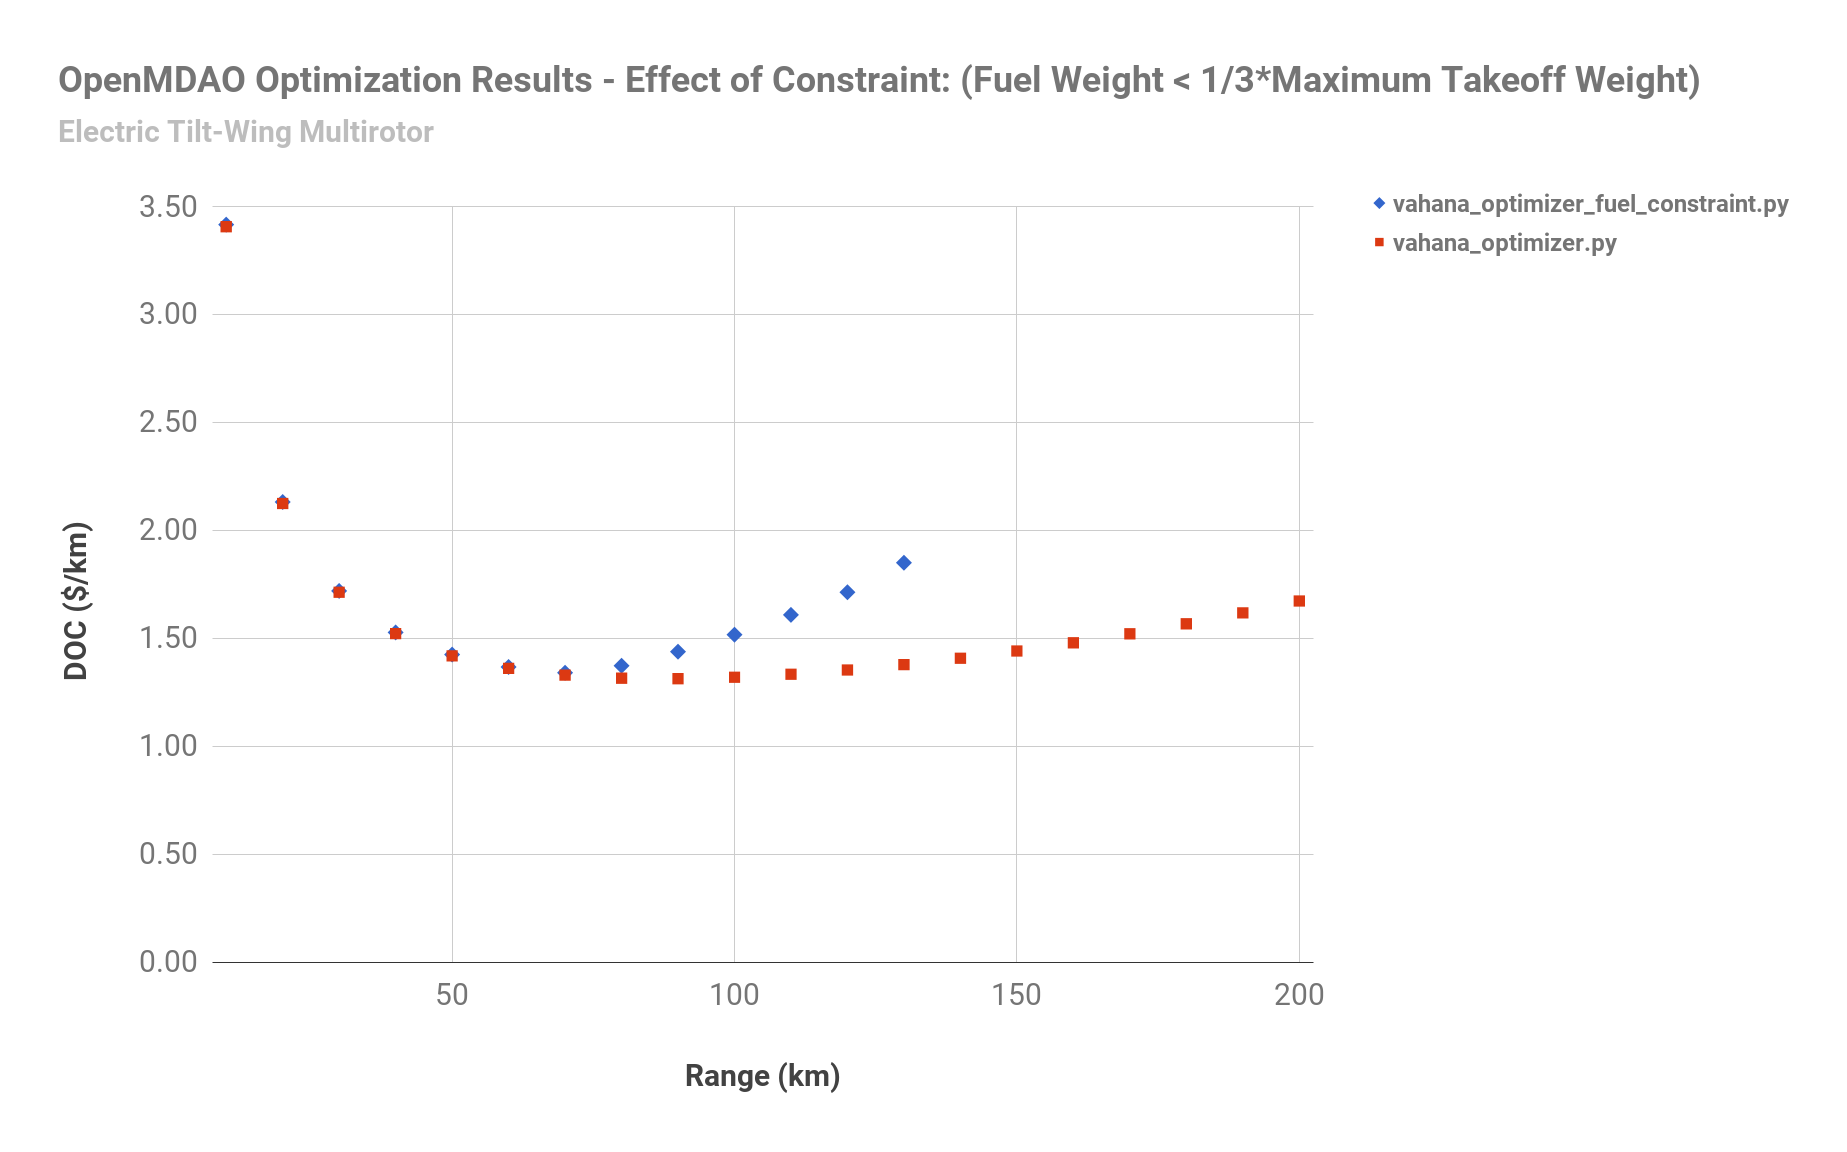
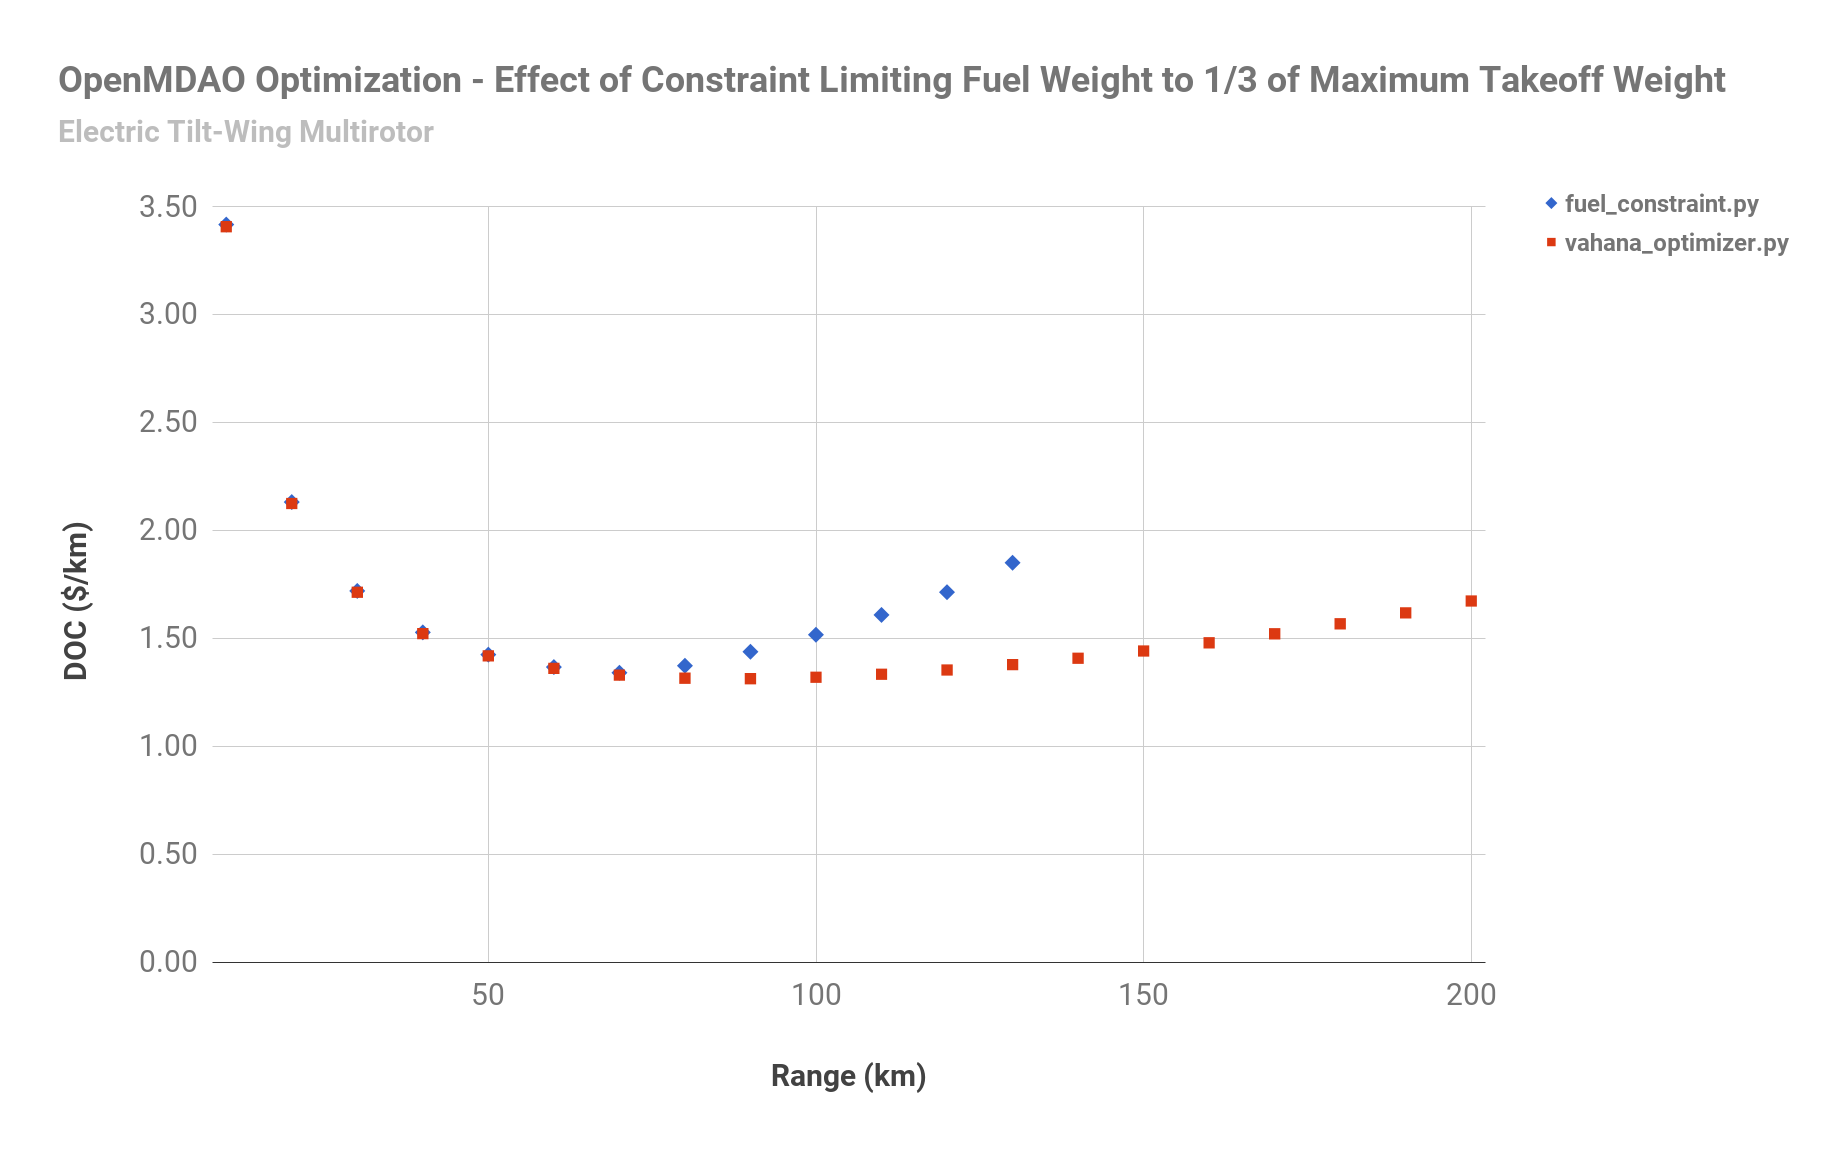
new images again.

diff --git a/scripts/vahana_optimizer_fuel_constraint.py b/scripts/vahana_optimizer_fuel_constraint.py
@@ -1,0 +1,373 @@
+'''
+# Name: vahana_optimizer.py
+# Company: MetaMorph, Inc.
+# Author(s): Joseph Coombe
+# Email: jcoombe@metamorphsoftware.com
+# Create Date: 6/15/2017
+# Edit Date: 6/23/2017
+
+# Conversion of Airbus A^3's vahanaTradeStudy>reserveMission.mat code
+# (located here: https://github.com/VahanaOpenSource/vahanaTradeStudy ) 
+# to Python 2.7 for use in the MetaMorph, Inc. OpenMETA environment.
+
+# Implementation of optimizer nested within a parameter study using 
+# the OpenMDAO framework and Python conversions of the vahanaTradeStudy
+
+# Inputs:
+#   Input               - input description [units]
+
+# Outputs:
+#   Outputs             - output description [units]
+'''
+
+from __future__ import print_function  # allows for backwards compatibility with Python 2.X - OpenMDAO (and OpenMeta) uses Python 2.7
+import sys
+import math
+import csv  # for data export
+
+# OpenMDAO imports
+from openmdao.api import Problem, Group, Component, IndepVarComp, ExecComp, \
+                         ScipyOptimizer, SubProblem, FullFactorialDriver, \
+                         SqliteRecorder  
+ 
+# Recorder import
+import sqlitedict  
+from pprint import pprint
+
+# Component imports
+from mass_2_weight import mass_2_weight
+from cruise_power import CruisePower
+from hover_power import HoverPower
+from loiter_power import loiter_power
+from mission import mission
+from wing_mass import wing_mass
+from wire_mass import wire_mass
+from fuselage_mass import fuselage_mass
+from config_weight import config_weight
+from tooling_cost import tooling_cost
+from operating_cost import operating_cost
+
+# Group imports
+
+# Component definitions
+
+# Group definitions
+
+class TopLevelSystem(Group):
+    def __init__(self):
+        super(TopLevelSystem, self).__init__()
+        
+        print('running...')
+        
+        # add design variables
+        self.add('indep1', IndepVarComp('range', 50.0))
+        self.add('indep2', IndepVarComp('rProp', 100.0))
+        self.add('indep3', IndepVarComp('cruiseSpeed', 50.0))
+        self.add('indep4', IndepVarComp('batteryMass', 11.70))
+        self.add('indep5', IndepVarComp('motorMass', 3.00))
+        self.add('indep6', IndepVarComp('mtom', 6.500))
+        self.add('indep7', IndepVarComp('vehicle', u'tiltwing'))  # TypeError: In subproblem 'subprob': Type <type 'str'> of source 'indep7.vehicle' must be the same as type <type 'unicode'> of target 'ConfigWeight.Vehicle'.
+        
+        # design variable scaling - this is CRITICAL or else the COBYLA optimizer WILL NOT WORK
+        self.add('scale2', ExecComp('scaled = orig*0.01'))
+        self.add('scale3', ExecComp('scaled = orig*1.0'))
+        self.add('scale4', ExecComp('scaled = orig*10.0'))
+        self.add('scale5', ExecComp('scaled = orig*10.0'))
+        self.add('scale6', ExecComp('scaled = orig*100.0'))
+        
+        self.connect('indep2.rProp', 'scale2.orig')
+        self.connect('indep3.cruiseSpeed', 'scale3.orig')
+        self.connect('indep4.batteryMass', 'scale4.orig')
+        self.connect('indep5.motorMass', 'scale5.orig')
+        self.connect('indep6.mtom', 'scale6.orig')
+        
+        # add components
+        self.add('MassToWeight', mass_2_weight())
+        self.add('CruisePower', CruisePower())
+        self.add('HoverPower', HoverPower())
+        self.add('LoiterPower', loiter_power())
+        self.add('SimpleMission', mission())
+        self.add('ReserveMission', mission())
+        self.add('WingMass', wing_mass())
+        self.add('CanardMass', wing_mass())
+        self.add('WireMass', wire_mass())
+        self.add('FuselageMass', fuselage_mass())
+        self.add('ConfigWeight', config_weight())
+        self.add('ToolingCost', tooling_cost())
+        self.add('OperatingCost', operating_cost())
+        
+        # add component constants - Q. is there a better way to do this?
+        self.add('simpleMissionConst1', IndepVarComp('hops', 1.0))
+        self.add('simpleMissionConst2', IndepVarComp('loiterTime', 0.0))
+        self.add('reserveMissionConst1', IndepVarComp('hops', 2.0))
+        self.add('reserveMissionConst2', IndepVarComp('loiterTime', 1020.0))
+        self.add('wingMassConst1', IndepVarComp('winglet', 0.2))
+        self.add('wingMassConst2', IndepVarComp('fc', 0.4))
+        self.add('canardMassConst1', IndepVarComp('winglet', 0.0))
+        self.add('canardMassConst2', IndepVarComp('fc', 0.6))
+        self.add('wireMassConst1', IndepVarComp('fuselageLength', 5.0))
+        self.add('wireMassConst2', IndepVarComp('fuselageHeight', 1.65))
+        self.add('fuselageMassConst1', IndepVarComp('length', 5.0))
+        self.add('fuselageMassConst2', IndepVarComp('width', 1.0))
+        self.add('fuselageMassConst3', IndepVarComp('height', 1.65))
+        self.add('configWeightConst1', IndepVarComp('payload_mass', 114.0))
+        #self.add('configWeightConst2', IndepVarComp('fuselage_mass', 55.0))  # TEMPORARY: This constant is a workaround until I add fuselage_mass.py
+        self.add('configWeightConst3', IndepVarComp('prop_mass', 14.0))  # TEMPORARY: This constant is a workaround until I add prop_mass.py
+        #self.add('configWeightConst4', IndepVarComp('wing_mass', 40.0))  # TEMPORARY: This constant is a workaround until I add wing_mass.py
+        #self.add('configWeightConst5', IndepVarComp('canard_mass', 38.0))  # TEMPORARY: This constant is a workaround until I add wing_mass.py
+        self.add('costBuildupConst1', IndepVarComp('partsPerTool', 1000.0))
+        
+        # add constraint equations
+        self.add('con1', ExecComp('c1 = (mBattery*230.0*0.95/1000.0) - EReserve'))
+        self.add('con2', ExecComp('c2 = mMotors*5.0 - hoverPower_PMax / 1000.0'))
+        self.add('con3', ExecComp('c3 = mtow*9.8 - mass_W'))
+        #self.add('con4', ExecComp('c4 = 0.5*1.0/3.0*mass_rotor*hoverPower_Vtip**2.0 - 0.5*mass_m*hoverPower_VAutoRotation**2.0'))  # Helicopter only - doesn't work for this version
+        self.add('con5', ExecComp('c5 = ((1.0/3.0)*mtow) - mBattery'))  # "Most transport aircraft have a maximum fuel weight that is roughly 1/3 of the maximum takeoff weight..."
+        
+        # connect components - as Jonathan pointed out, the alternative is to use a consistent naming convetion and promote variables. This is a pain without a wrapper *cough* OpenMETA *cough*.
+        self.connect('scale6.scaled', 'MassToWeight.mass')  # MassToWeight inputs
+        
+        self.connect('scale2.scaled', 'CruisePower.rProp')  # CruisePower inputs
+        self.connect('scale3.scaled', 'CruisePower.V')
+        self.connect('indep7.vehicle', 'CruisePower.Vehicle')
+        self.connect('MassToWeight.weight', 'CruisePower.W')
+        
+        self.connect('CruisePower.omega', 'HoverPower.cruisePower_omega')  # HoverPower inputs
+        self.connect('scale2.scaled', 'HoverPower.rProp')
+        self.connect('indep7.vehicle', 'HoverPower.Vehicle')
+        self.connect('MassToWeight.weight', 'HoverPower.W')
+        
+        self.connect('CruisePower.B', 'LoiterPower.B')  # LoiterPower inputs
+        self.connect('CruisePower.AR', 'LoiterPower.cruiseOutputAR')
+        self.connect('CruisePower.Cd0', 'LoiterPower.cruiseOutputCd0')
+        self.connect('CruisePower.e', 'LoiterPower.cruiseOutputE')
+        self.connect('CruisePower.etaMotor', 'LoiterPower.cruiseOutputEtaMotor')
+        self.connect('CruisePower.etaProp', 'LoiterPower.cruiseOutputEtaProp')
+        self.connect('CruisePower.omega', 'LoiterPower.cruiseOutputOmega')
+        self.connect('CruisePower.PCruise', 'LoiterPower.cruiseOutputP')
+        self.connect('CruisePower.PBattery', 'LoiterPower.cruiseOutputPBattery')
+        self.connect('CruisePower.SCdFuse', 'LoiterPower.cruiseOutputSCdFuse')
+        self.connect('CruisePower.sigma', 'LoiterPower.cruiseOutputSigma')
+        self.connect('CruisePower.SRef', 'LoiterPower.cruiseOutputSRef')
+        self.connect('scale2.scaled', 'LoiterPower.rProp')
+        self.connect('scale3.scaled', 'LoiterPower.V')
+        self.connect('indep7.vehicle', 'LoiterPower.Vehicle')
+        self.connect('MassToWeight.weight', 'LoiterPower.W')
+          
+        self.connect('CruisePower.PBattery', 'SimpleMission.cruiseOutput_PBattery')  # SimpleMission inputs
+        self.connect('simpleMissionConst1.hops', 'SimpleMission.hops')
+        self.connect('HoverPower.hoverPower_PBattery', 'SimpleMission.hoverOutput_PBattery')
+        self.connect('simpleMissionConst2.loiterTime', 'SimpleMission.loiterTime')
+        self.connect('indep1.range', 'SimpleMission.range')
+        self.connect('scale2.scaled', 'SimpleMission.rProp')
+        self.connect('scale3.scaled', 'SimpleMission.V')
+        self.connect('indep7.vehicle', 'SimpleMission.Vehicle')
+        
+        self.connect('CruisePower.PBattery', 'ReserveMission.cruiseOutput_PBattery')  # ReserveMission inputs
+        self.connect('reserveMissionConst1.hops', 'ReserveMission.hops')
+        self.connect('HoverPower.hoverPower_PBattery', 'ReserveMission.hoverOutput_PBattery')
+        self.connect('LoiterPower.PBattery', 'ReserveMission.loiterOutput_PBattery')
+        self.connect('reserveMissionConst2.loiterTime', 'ReserveMission.loiterTime')
+        self.connect('indep1.range', 'ReserveMission.range')
+        self.connect('scale2.scaled', 'ReserveMission.rProp')
+        self.connect('scale3.scaled', 'ReserveMission.V')
+        self.connect('indep7.vehicle', 'ReserveMission.Vehicle')
+        
+        self.connect('CruisePower.cRef', 'WingMass.chord')  # WingMass inputs
+        self.connect('wingMassConst2.fc', 'WingMass.fc')
+        self.connect('scale2.scaled', 'WingMass.rProp')
+        self.connect('CruisePower.bRef', 'WingMass.span')
+        self.connect('HoverPower.TMax', 'WingMass.thrust')
+        self.connect('MassToWeight.weight', 'WingMass.W')
+        self.connect('wingMassConst1.winglet', 'WingMass.winglet')
+
+        self.connect('CruisePower.cRef', 'CanardMass.chord')  # CanardMass inputs
+        self.connect('canardMassConst2.fc', 'CanardMass.fc')
+        self.connect('scale2.scaled', 'CanardMass.rProp')
+        self.connect('CruisePower.bRef', 'CanardMass.span') 
+        self.connect('HoverPower.TMax', 'CanardMass.thrust')
+        self.connect('MassToWeight.weight', 'CanardMass.W')
+        self.connect('canardMassConst1.winglet', 'CanardMass.winglet')
+        
+        self.connect('wireMassConst2.fuselageHeight', 'WireMass.fuselageHeight')  # WireMass inputs
+        self.connect('wireMassConst1.fuselageLength', 'WireMass.fuselageLength')
+        self.connect('HoverPower.hoverPower_PMaxBattery', 'WireMass.power')  # Make sure this is actually correct
+        self.connect('scale2.scaled', 'WireMass.rProp')
+        self.connect('CruisePower.bRef', 'WireMass.span')
+        
+        self.connect('fuselageMassConst1.length', 'FuselageMass.length')  # FuselageMass inputs
+        self.connect('fuselageMassConst2.width', 'FuselageMass.width')
+        self.connect('fuselageMassConst3.height', 'FuselageMass.height')
+        self.connect('CruisePower.bRef', 'FuselageMass.span')
+        self.connect('MassToWeight.weight', 'FuselageMass.weight')
+        
+        self.connect('CanardMass.mass', 'ConfigWeight.canard_mass')  # ConfigWeight inputs
+        self.connect('FuselageMass.mass', 'ConfigWeight.fuselage_mass')
+        self.connect('HoverPower.hoverPower_PMax', 'ConfigWeight.hoverOutput_PMax')
+        self.connect('scale4.scaled', 'ConfigWeight.mBattery')
+        self.connect('scale5.scaled', 'ConfigWeight.mMotors')
+        self.connect('scale6.scaled', 'ConfigWeight.mtow')
+        self.connect('configWeightConst1.payload_mass', 'ConfigWeight.payload')
+        self.connect('configWeightConst3.prop_mass', 'ConfigWeight.prop_mass')
+        self.connect('scale2.scaled', 'ConfigWeight.rProp')
+        self.connect('indep7.vehicle', 'ConfigWeight.Vehicle')
+        self.connect('WingMass.mass', 'ConfigWeight.wing_mass')
+        self.connect('WireMass.mass', 'ConfigWeight.wire_mass')
+        
+        self.connect('CruisePower.bRef', 'ToolingCost.cruiseOutput_bRef')  # ToolingCost inputs
+        self.connect('CruisePower.cRef', 'ToolingCost.cruiseOutput_cRef')
+        self.connect('costBuildupConst1.partsPerTool', 'ToolingCost.partsPerTool')
+        self.connect('scale2.scaled', 'ToolingCost.rProp')
+        self.connect('indep7.vehicle', 'ToolingCost.Vehicle')
+        
+        self.connect('SimpleMission.E', 'OperatingCost.E')  # OperatingCost inputs
+        self.connect('SimpleMission.t', 'OperatingCost.flightTime')
+        self.connect('scale4.scaled', 'OperatingCost.mass_battery')
+        self.connect('scale5.scaled', 'OperatingCost.mass_motors')
+        self.connect('ConfigWeight.mass_structural', 'OperatingCost.mass_structural')
+        self.connect('scale2.scaled', 'OperatingCost.rProp')
+        self.connect('ToolingCost.toolCostPerVehicle', 'OperatingCost.toolingCost')
+        self.connect('indep7.vehicle', 'OperatingCost.Vehicle')
+  
+        self.connect('ReserveMission.E', 'con1.EReserve')  # Constraint inputs
+        self.connect('scale4.scaled', 'con1.mBattery')
+        self.connect('HoverPower.hoverPower_PMax', 'con2.hoverPower_PMax')
+        self.connect('scale5.scaled', 'con2.mMotors')
+        self.connect('ConfigWeight.mass_W', 'con3.mass_W')
+        self.connect('scale6.scaled', 'con3.mtow')
+        self.connect('scale4.scaled', 'con5.mBattery')
+        self.connect('scale6.scaled', 'con5.mtow')
+        
+        ### Experiment
+        #self.add('con1scaled', ExecComp('c1 = raw/10.0'))  # Scale constraints - this would be worth looking into later. Didn't make a huge difference here but apparently optimizers are very dumb.
+        #self.add('con2scaled', ExecComp('c2 = raw/10.0'))
+        #self.add('con3scaled', ExecComp('c3 = raw/100.0'))
+        #self.add('con5scaled', ExecComp('c5 = raw/10.0'))
+        #self.connect('con1.c1', 'con1scaled.raw')
+        #self.connect('con2.c2', 'con2scaled.raw')
+        #self.connect('con3.c3', 'con3scaled.raw')
+        #self.connect('con5.c5', 'con5scaled.raw')
+        ###
+        
+if __name__ == '__main__':
+    # SubProblem: define a Problem to optimize the system
+    sub = Problem(root=TopLevelSystem())
+    
+    # SubProblem: set up the optimizer
+    sub.driver = ScipyOptimizer()
+    sub.driver.options['optimizer'] = 'COBYLA'  # The 'COBYLA' optimizer is supported by OpenMETA. 
+                                                # Unlike the 'SLSQP' optimizer, the 'COBYLA' optimizer doesn't require a Jacobian matrix.
+    sub.driver.options['disp'] = True  # enable optimizer output
+    sub.driver.options['maxiter'] = 1000
+    sub.driver.options['tol'] = 0.01
+    #sub.driver.opt_settings['rhobeg'] = 100.0
+    
+    # SubProblem: set design variables for sub.driver
+    sub.driver.add_desvar('indep2.rProp', lower=30.0, upper=200.0)
+    sub.driver.add_desvar('indep3.cruiseSpeed', lower=45.5, upper=80.0)
+    sub.driver.add_desvar('indep4.batteryMass', lower=1.0, upper=99.90)
+    sub.driver.add_desvar('indep5.motorMass', lower=0.10, upper=99.90)
+    sub.driver.add_desvar('indep6.mtom', lower=1.0, upper=99.990)
+    
+    # SubProblem: set design objectives
+    sub.driver.add_objective('OperatingCost.C_costPerFlight')
+    
+    # SubProblem: set design variable constraints - Jonathan says that some of the optimizers
+    # (in particular COBYLA) seem to totally ignore the design variable lower and upper bounds
+    # Jonathan's work-around is to set additional constraints
+    # Interesting article: http://openmdao.org/forum/questions/342/slsqpdriver-not-respecting-paramaters-low-and-high-contraints
+    sub.driver.add_constraint('indep2.rProp', lower=30.0, upper=200.0)
+    sub.driver.add_constraint('indep3.cruiseSpeed', lower=45.5, upper=80.0)
+    sub.driver.add_constraint('indep4.batteryMass', lower=1.0, upper=99.90)
+    sub.driver.add_constraint('indep5.motorMass', lower=0.10, upper=99.90)
+    sub.driver.add_constraint('indep6.mtom', lower=1.0, upper=99.990)
+    
+    # SubProblem: set design constraints
+    sub.driver.add_constraint('con1.c1', lower=0.0)
+    sub.driver.add_constraint('con2.c2', lower=0.0)
+    sub.driver.add_constraint('con3.c3', lower=0.0)
+    sub.driver.add_constraint('con5.c5', lower=0.0)
+    
+    # TopProblem: define a Problem to set up different optimization cases
+    top = Problem(root=Group())
+    
+    # TopProblem: add independent variables
+    top.root.add('indep1', IndepVarComp('range', 50.0))
+    top.root.add('indep2', IndepVarComp('rProp', 100.0))
+    top.root.add('indep3', IndepVarComp('cruiseSpeed', 50.0))
+    top.root.add('indep4', IndepVarComp('batteryMass', 11.70))
+    top.root.add('indep5', IndepVarComp('motorMass', 3.00))
+    top.root.add('indep6', IndepVarComp('mtom', 6.500))
+    top.root.add('indep7', IndepVarComp('vehicle', 'tiltwing'))  # 1st get this working with just the tiltwing
+    
+    # TopProblem: add the SubProblem
+    top.root.add('subprob', SubProblem(sub, params=['indep1.range', 'indep2.rProp', \
+                                                    'indep3.cruiseSpeed', 'indep4.batteryMass', \
+                                                    'indep5.motorMass', 'indep6.mtom'],
+                                            unknowns=['OperatingCost.C_costPerFlight']))
+    
+    # TopProblem: connect top's independent variables to sub's params
+    top.root.connect('indep1.range', 'subprob.indep1.range')
+    top.root.connect('indep2.rProp', 'subprob.indep2.rProp')
+    top.root.connect('indep3.cruiseSpeed', 'subprob.indep3.cruiseSpeed')
+    top.root.connect('indep4.batteryMass', 'subprob.indep4.batteryMass')
+    top.root.connect('indep5.motorMass', 'subprob.indep5.motorMass')
+    top.root.connect('indep6.mtom', 'subprob.indep6.mtom')
+    
+    # TopProblem: set up the parameter study
+    # for a parameter study, the following drivers can be used:
+    # UniformDriver, FullFactorialDriver, LatinHypercubeDriver, OptimizedLatinHypercubeDriver
+    # in this case, we will use FullFactorialDriver
+    top.driver = FullFactorialDriver(num_levels=20)
+    
+    # TopProblem: add top.driver's design variables
+    top.driver.add_desvar('indep1.range', lower=10000.0, upper=200000.0)
+    
+    # Data collection
+    recorder = SqliteRecorder('subprob')
+    recorder.options['record_params'] = True
+    recorder.options['record_metadata'] = True
+    top.driver.add_recorder(recorder)
+    
+    # Setup
+    top.setup(check=False)
+    
+    # Run 
+    top.run()
+    
+    # Cleanup
+    top.cleanup()
+    
+    # Data retrieval & display
+    # Old way - good for debugging IndepVars
+    #db = sqlitedict.SqliteDict( 'subprob', 'iterations' )
+    #db_keys = list( db.keys() ) # list() needed for compatibility with Python 3. Not needed for Python 2
+    #for i in db_keys:
+    #    data = db[i]
+    #    print('\n')
+    #    print(data['Unknowns'])
+    #    print(data['Parameters'])
+    
+    db = sqlitedict.SqliteDict( 'subprob', 'iterations' )
+    db_keys = list( db.keys() ) # list() needed for compatibility with Python 3. Not needed for Python 2
+    for i in db_keys:
+        data = db[i]
+        print('\n')
+        print('Range (m): {}, DOC ($): {}, rProp (m): {}, cruiseSpeed (m/s): {}, batteryMass (kg): {}, motorMass (kg): {}, mtom (kg): {}' \
+            .format(data['Parameters']['subprob.indep1.range'] / 1000.0, data['Unknowns']['subprob.OperatingCost.C_costPerFlight'], \
+            data['Parameters']['subprob.indep2.rProp'] * 0.01, data['Parameters']['subprob.indep3.cruiseSpeed'], \
+            data['Parameters']['subprob.indep4.batteryMass'] * 10.0, data['Parameters']['subprob.indep5.motorMass'] * 10.0, \
+            data['Parameters']['subprob.indep6.mtom'] * 100.0))
+    
+    # Data export via .csv      
+    with open('results.csv', 'wb') as csvfile:
+        writer = csv.writer(csvfile, delimiter=',', quotechar='|', quoting=csv.QUOTE_MINIMAL)
+        writer.writerow(['Range [km]', 'DOC [$]', 'DOC [$/km]', 'RotorRadius [m]', 'CruiseSpeed [m/s]', 'BatteryMass [kg]', 'MotorMass [kg]', 'MaxTakeOffMass [kg]'])
+        for i in db_keys:
+            data = db[i]
+            writer.writerow([data['Parameters']['subprob.indep1.range'] / 1000.0, data['Unknowns']['subprob.OperatingCost.C_costPerFlight'], \
+            data['Unknowns']['subprob.OperatingCost.C_costPerFlight'] / data['Parameters']['subprob.indep1.range'] * 1000.0, \
+            data['Parameters']['subprob.indep2.rProp'] * 0.01, data['Parameters']['subprob.indep3.cruiseSpeed'], \
+            data['Parameters']['subprob.indep4.batteryMass'] * 10.0, data['Parameters']['subprob.indep5.motorMass'] * 10.0, \
+            data['Parameters']['subprob.indep6.mtom'] * 100.0])
+    
